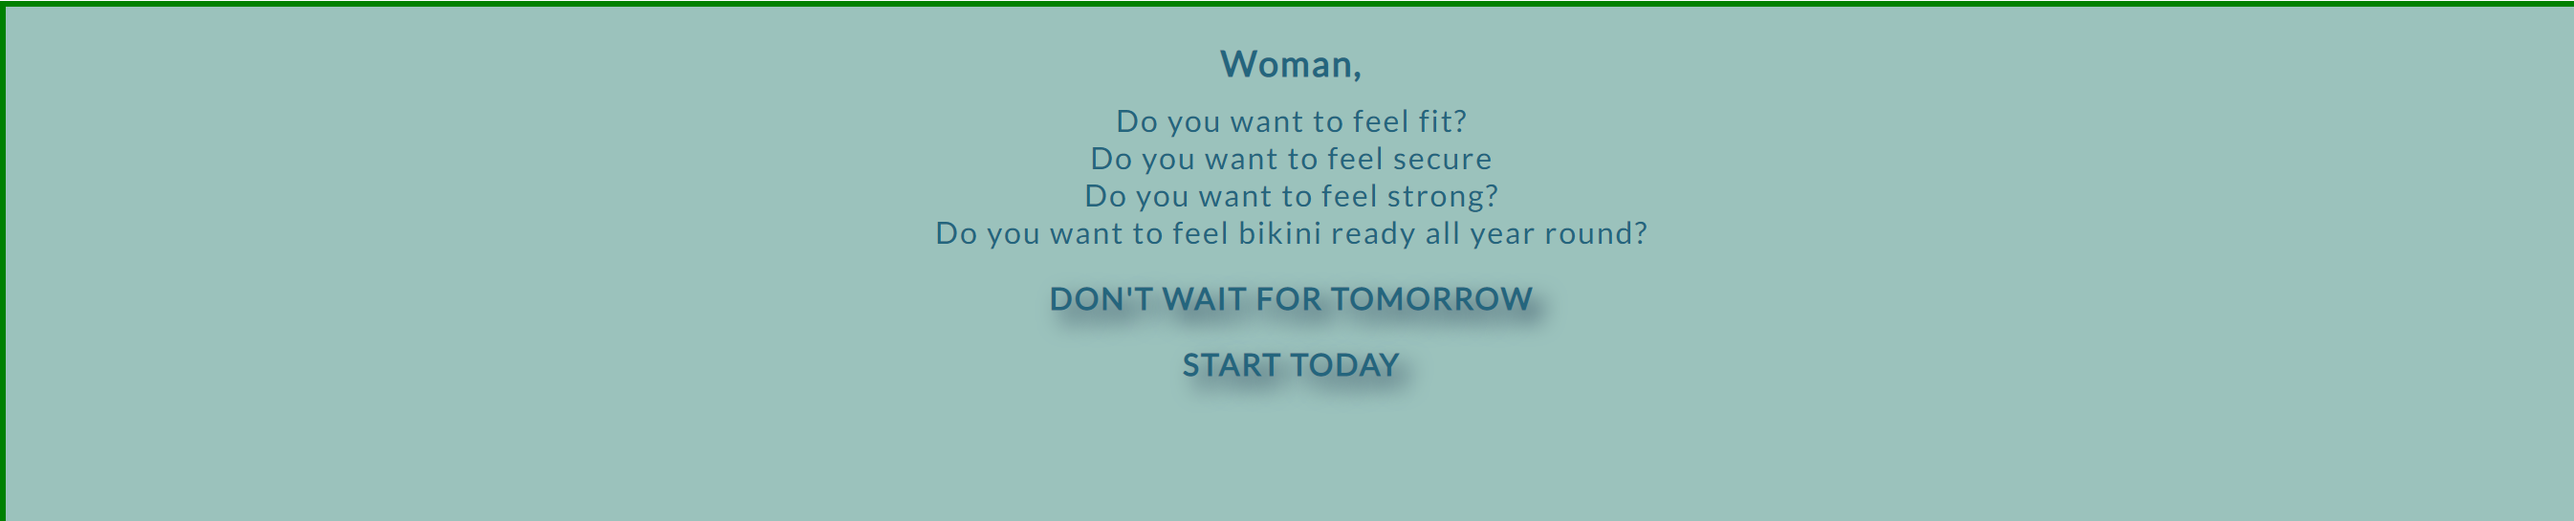
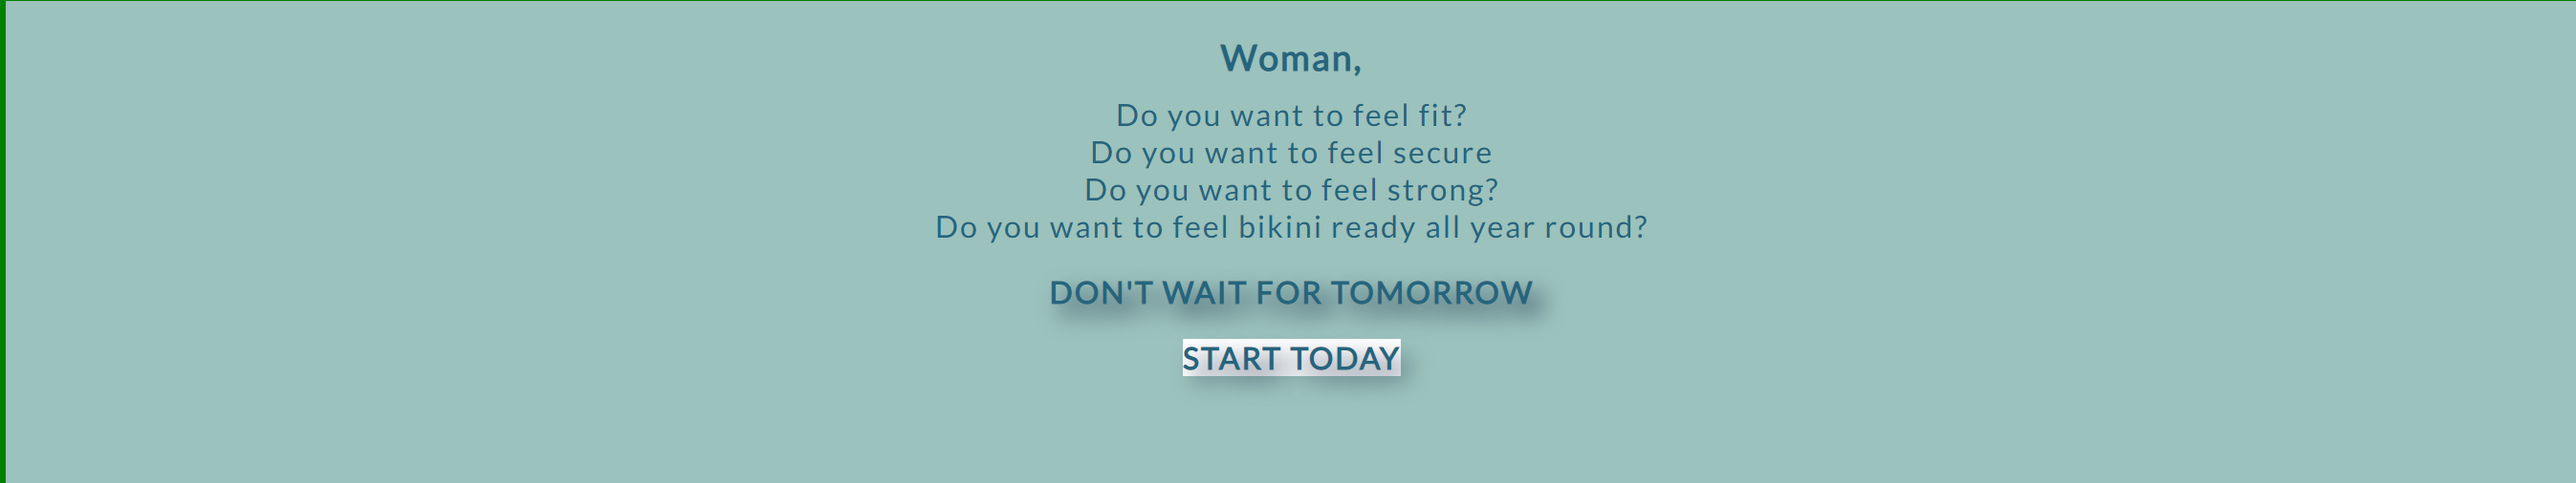
I have one option in type of bullet point. To make differentiation between text I will work with bold headlines

diff --git a/README.md b/README.md
@@ -13,9 +13,10 @@ Bikini Proof is a website for women who want to get into shape. As the title sug
 
 * Navigation Bar
 
- -  The navigation bar is meant to give visitors easy direction through the different sections of the website.
+    The navigation bar is meant to give visitors easy direction through the different sections of the website.
     The logo is stuck to the left high end of the bar and the sections to the low end of the right side.
- -  It is made sure that the navigation bar sticks to the top of the page at all times. 
+
+    It is made sure that the navigation bar sticks to the top of the page at all times. 
     This will help our visitors even better in navigating through our pages, as they can always redirect where to go. 
 
 ![picture of the navigation bar](documentation%20/nav_bar.png)
@@ -24,10 +25,13 @@ Bikini Proof is a website for women who want to get into shape. As the title sug
 
 The home page is considerably simple and consice. It exist out of a couple sections. 
 
-   *  First Section 
+ ** First Section ** 
+
 This list of questions is meant to filter out our ideal customer. The women that want a solution to these recognizable problems are offered an immediate first step. They can click on START TODAY and will be directed to our sign-up form. 
 
 ![Picture of the first section of home page](documentation%20/call-to-action.png)
+
+
 
 
 
